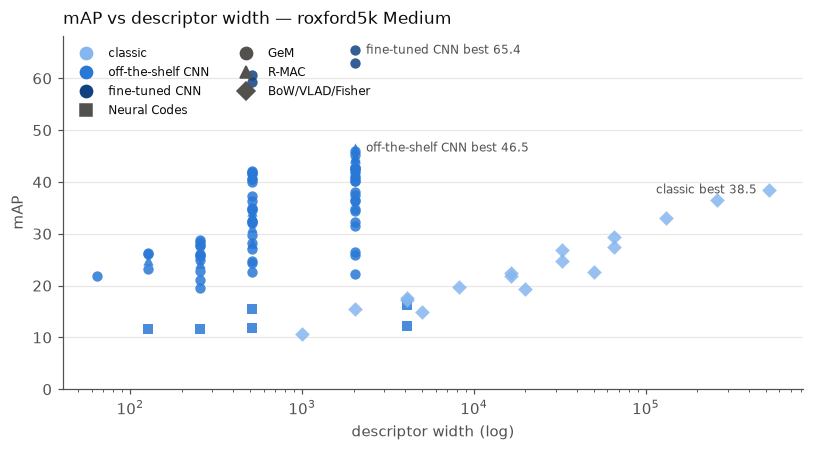
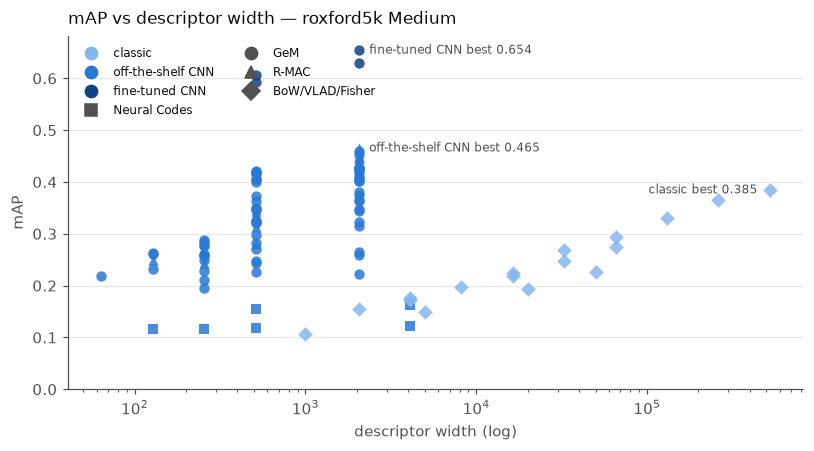
Report mAP on 0-1 throughout
The two notebooks disagreed -- 02 plotted fractions, 03 plotted x100 -- so the
two README figures sat next to each other on different scales. 0-1 everywhere
now, matching the notebook that was already there.

Ten tables converted by explicit column index rather than by pattern, since a
regex over the README would also have caught the `k`, `dim`, GB, arXiv-id and
pooling-exponent figures that share the shape. Thirty prose passages converted
as asserted literal replacements for the same reason.

Published figures are quoted on the same 0-1 scale, which the protocol lines
now state, because the papers print them x100 and a reader checking Table 5
against these tables needs to know the difference is scale and not measurement.

The run-to-run noise note keeps four decimals: at three, the 0.4200 and 0.4211
it contrasts round to the same number.

Verified after the fact -- twenty measured figures re-derived from runs.jsonl
at the new scale, plus a scan confirming no table row and no prose figure is
still on 0-100.

diff --git a/README.md b/README.md
@@ -73,33 +73,33 @@ Plotted against **descriptor dimensionality**, not `k` — the axis on which the
 comparable, since equal `k` buys wildly unequal vectors. Regenerated by the last cell of
 `notebooks/02_classic_comparison.ipynb`, so it cannot drift from the numbers below.
 
-roxford5k, codebook held out on rparis6k, seed 0, mAP ×100. Medium is the headline
+roxford5k, codebook held out on rparis6k, seed 0, mAP on 0–1. Medium is the headline
 number in the literature; Easy is near-saturated and reported in `results/runs.jsonl`
 only.
 
 | method | k | dim | Medium | Hard |
 |---|---:|---:|---:|---:|
-| BoW | 1000 | 1000 | 10.7 | 2.8 |
-| BoW | 5000 | 5000 | 14.8 | 5.7 |
-| BoW | 20000 | 20000 | 19.4 | 7.6 |
-| BoW | 50000 | 50000 | 22.6 | 8.7 |
-| Fisher | 16 | 4096 | 17.6 | 6.3 |
-| Fisher | 64 | 16384 | 21.9 | 10.6 |
-| Fisher | 128 | 32768 | 24.7 | 11.8 |
-| Fisher | 256 | 65536 | 27.4 | 14.4 |
-| VLAD | 16 | 2048 | 15.4 | 4.2 |
-| VLAD | 32 | 4096 | 17.3 | 5.6 |
-| VLAD | 64 | 8192 | 19.7 | 8.0 |
-| VLAD | 128 | 16384 | 22.4 | 10.0 |
-| VLAD | 256 | 32768 | 26.9 | 13.4 |
-| VLAD | 512 | 65536 | 29.5 | 13.7 |
-| VLAD | 1024 | 131072 | 33.1 | 16.2 |
-| VLAD | 2048 | 262144 | 36.5 | 19.0 |
-| **VLAD** | **4096** | **524288** | **38.5** | **19.5** |
+| BoW | 1000 | 1000 | 0.107 | 0.028 |
+| BoW | 5000 | 5000 | 0.148 | 0.057 |
+| BoW | 20000 | 20000 | 0.194 | 0.076 |
+| BoW | 50000 | 50000 | 0.226 | 0.087 |
+| Fisher | 16 | 4096 | 0.176 | 0.063 |
+| Fisher | 64 | 16384 | 0.219 | 0.106 |
+| Fisher | 128 | 32768 | 0.247 | 0.118 |
+| Fisher | 256 | 65536 | 0.274 | 0.144 |
+| VLAD | 16 | 2048 | 0.154 | 0.042 |
+| VLAD | 32 | 4096 | 0.173 | 0.056 |
+| VLAD | 64 | 8192 | 0.197 | 0.080 |
+| VLAD | 128 | 16384 | 0.224 | 0.100 |
+| VLAD | 256 | 32768 | 0.269 | 0.134 |
+| VLAD | 512 | 65536 | 0.295 | 0.137 |
+| VLAD | 1024 | 131072 | 0.331 | 0.162 |
+| VLAD | 2048 | 262144 | 0.365 | 0.190 |
+| **VLAD** | **4096** | **524288** | **0.385** | **0.195** |
 
-**Validation.** Radenović et al. report `HesAff–rSIFT–VLAD` at Medium 33.9 / Hard 13.2 on
+**Validation.** Radenović et al. report `HesAff–rSIFT–VLAD` at Medium 0.339 / Hard 0.132 on
 this benchmark ([1803.11285](https://arxiv.org/abs/1803.11285), Table 5). VLAD k=1024
-here reaches 33.1 / 16.2 — with OpenCV DoG SIFT rather than Hessian-Affine, no
+here reaches 0.331 / 0.162 — with OpenCV DoG SIFT rather than Hessian-Affine, no
 PCA-whitening, and a vocabulary trained on rparis6k rather than a separate landmark set.
 Landing on a published number is what licenses trusting the rest of the table; the larger
 `k` above it then exceed that reference.
@@ -108,12 +108,13 @@ At matched dimensionality the ordering is **VLAD ≥ Fisher > BoW** at every poi
 looks stronger at equal `k` only because its vector is twice as long there.
 
 **VLAD may be levelling off near k=4096, but this is not established.** Its Medium
-increments per doubling run +1.9, +2.5, +2.6, +4.6, +2.5, +3.7, +3.4, +1.9 and Hard's run
-+1.4, +2.4, +2.0, +3.4, +0.3, +2.5, +2.7, +0.5. The final doubling is the smallest for
-both — but Hard already dropped to +0.3 at k=512 and then resumed at +2.5 and +2.7, so a
+increments per doubling run +0.019, +0.025, +0.026, +0.046, +0.025, +0.037, +0.034,
++0.019 and Hard's run +0.014, +0.024, +0.020, +0.034, +0.003, +0.025, +0.027, +0.005. The final doubling is the smallest for
+both — but Hard already dropped to +0.003 at k=512 and then resumed at +0.025 and
++0.027, so a
 single small increment has misled here before. Treat k=4096 as the point where returns
 stop justifying the cost (twice the storage, 5.2 → 10.5 GB for the database matrix, for
-under two points) rather than as a demonstrated ceiling. Confirming a real plateau needs
+under 0.02 mAP) rather than as a demonstrated ceiling. Confirming a real plateau needs
 k=8192, which this setup cannot reach.
 
 BoW and Fisher were not pushed anywhere near their knees; both were still climbing where
@@ -165,8 +166,9 @@ was run with WSL at 64 GB. Below k=2048 the default 48 GB is fine.
 
 Frozen ImageNet backbones, plus the published fine-tuned checkpoints in their own
 section below. Same protocol as the classic tier:
-roxford5k, anything fitted is fitted on rparis6k, seed 0, mAP ×100, queries bbx-cropped,
-multi-scale at the three published scales (1, 1/√2, 1/2).
+roxford5k, anything fitted is fitted on rparis6k, seed 0, mAP on 0–1, queries
+bbx-cropped, multi-scale at the three published scales (1, 1/√2, 1/2). Published figures
+are quoted on the same 0–1 scale; the papers themselves print them ×100.
 
 ```
 uv run cbir evaluate --dataset roxford5k gem  --backbone resnet101 --p 3.0 \
@@ -184,13 +186,13 @@ training recipe — and the descriptors agree at cosine 0.23.
 
 | GeM `p=3` | torchvision | caffe | Δ |
 |---|---:|---:|---:|
-| **ResNet101** | 34.7 | **46.1** | **+11.4** |
-| ResNet50 | 40.8 | 42.5 | +1.7 |
-| VGG16 | 42.0 | 40.6 | −1.4 |
+| **ResNet101** | 0.347 | **0.461** | **+0.114** |
+| ResNet50 | 0.408 | 0.425 | +0.017 |
+| VGG16 | 0.420 | 0.406 | −0.014 |
 
 It is architecture-specific, not a blanket improvement: torchvision's ResNet101 simply
 transfers to retrieval far worse than its ResNet50, and on VGG16 the Caffe weights are
-slightly *worse*. MAC is affected most (+16.2 on ResNet101, +8.0 on ResNet50), which
+slightly *worse*. MAC is affected most (+0.162 on ResNet101, +0.080 on ResNet50), which
 fits the measured difference in the features — Caffe's final conv map is **96% zeros at
 std 0.72** against torchvision's **75% at 0.33**, a sparser, higher-contrast
 representation where a max picks a real peak rather than diffuse activation.
@@ -211,15 +213,16 @@ their configuration — their weights, their truncation:
 
 | method | backbone | ours | published | |
 |---|---|---:|---:|---|
-| GeM `p=3` | VGG16 | 40.5 / 15.5 | 40.5 / 15.7 | exact |
-| GeM `p=3` | ResNet101 | 46.1 / 18.6 | 45.0 / 17.7 | above |
-| MAC | ResNet101 | 42.7 / 17.2 | 41.7 / 18.0 | above |
-| MAC | AlexNet | 27.6 / 9.0 | 28.3 / 8.8 | −0.7 |
-| R-MAC | ResNet101 | 46.5 / 14.2 | 49.8 / 18.5 | **−3.2** |
+| GeM `p=3` | VGG16 | 0.405 / 0.155 | 0.405 / 0.157 | exact |
+| GeM `p=3` | ResNet101 | 0.461 / 0.186 | 0.450 / 0.177 | above |
+| MAC | ResNet101 | 0.427 / 0.172 | 0.417 / 0.180 | above |
+| MAC | AlexNet | 0.276 / 0.090 | 0.283 / 0.088 | −0.7 |
+| R-MAC | ResNet101 | 0.465 / 0.142 | 0.498 / 0.185 | **−3.2** |
 
-**VGG16 reproduces exactly** once the configuration matches. Our earlier 42.0 was not a
+**VGG16 reproduces exactly** once the configuration matches. Our earlier 0.420 was not a
 better reproduction — it was a *different* configuration (torchvision weights, trailing
-max-pool kept) that happens to score 1.5 higher than the method it was compared against.
+max-pool kept) that happens to score 0.015 higher than the method it was compared
+against.
 Both differences pushed the same way.
 
 **R-MAC is the one row still short, with an identified cause**: the published method
@@ -236,10 +239,10 @@ That is 4× the positions on the conv map — 64×64 against 32×32 at `max_side
 
 | vgg16 GeM `p=3` | pool kept | pool dropped |
 |---|---:|---:|
-| torchvision weights | 42.0 / 15.6 | 41.6 / **16.7** |
-| caffe weights | 40.6 / 15.4 | 40.5 / 15.5 |
+| torchvision weights | 0.420 / 0.156 | 0.416 / **0.167** |
+| caffe weights | 0.406 / 0.154 | 0.405 / 0.155 |
 
-Small on Medium, but dropping it is worth **+1.1 Hard** on torchvision weights — more
+Small on Medium, but dropping it is worth **+0.011 Hard** on torchvision weights — more
 positions to pool over helps most where the object is small or partly occluded.
 
 ### The full grid
@@ -250,28 +253,28 @@ noted underneath.
 
 | backbone | dim | SPoC | MAC | GeM `p=3` | R-MAC |
 |---|---:|---|---|---|---|
-| AlexNet¹ | 256 | 21.0 / 2.5 | 27.6 / 9.0 | 27.9 / 7.2 | 24.4 / 4.1 |
-| VGG16 | 512 | 37.2 / 10.9 | 34.9 / 13.7 | **42.0** / 15.6 | 34.4 / 7.3 |
-| VGG19 | 512 | 34.7 / 10.0 | 34.6 / 15.1 | 40.0 / **18.4** | 33.6 / 6.5 |
-| ResNet18 | 512 | 32.3 / 6.3 | 22.6 / 7.0 | 28.2 / 8.1 | 31.3 / 5.1 |
-| ResNet34 | 512 | 32.4 / 5.9 | 24.3 / 6.5 | 29.8 / 6.8 | 33.6 / 6.7 |
-| ResNet50 | 2048 | 42.9 / 14.2 | 32.2 / 11.1 | 40.8 / 14.0 | 45.1 / 12.7 |
-| ResNet101 | 2048 | 38.1 / 10.2 | 26.5 / 6.7 | 34.7 / 10.8 | 42.8 / 11.1 |
-| **ResNet101 (caffe)** | 2048 | 41.9 / 13.6 | 42.7 / 17.2 | 46.1 / **18.6** | **46.5** / 14.2 |
-| *(VLAD k=4096, classic)* | *524288* | | | *38.5 / 19.5* | |
+| AlexNet¹ | 256 | 0.210 / 0.025 | 0.276 / 0.090 | 0.279 / 0.072 | 0.244 / 0.041 |
+| VGG16 | 512 | 0.372 / 0.109 | 0.349 / 0.137 | **0.420** / 0.156 | 0.344 / 0.073 |
+| VGG19 | 512 | 0.347 / 0.100 | 0.346 / 0.151 | 0.400 / **0.184** | 0.336 / 0.065 |
+| ResNet18 | 512 | 0.323 / 0.063 | 0.226 / 0.070 | 0.282 / 0.081 | 0.313 / 0.051 |
+| ResNet34 | 512 | 0.324 / 0.059 | 0.243 / 0.065 | 0.298 / 0.068 | 0.336 / 0.067 |
+| ResNet50 | 2048 | 0.429 / 0.142 | 0.322 / 0.111 | 0.408 / 0.140 | 0.451 / 0.127 |
+| ResNet101 | 2048 | 0.381 / 0.102 | 0.265 / 0.067 | 0.347 / 0.108 | 0.428 / 0.111 |
+| **ResNet101 (caffe)** | 2048 | 0.419 / 0.136 | 0.427 / 0.172 | 0.461 / **0.186** | **0.465** / 0.142 |
+| *(VLAD k=4096, classic)* | *524288* | | | *0.385 / 0.195* | |
 
 ¹ AlexNet unwhitened — whitening costs mAP at 256-D.
 
-**Best: ResNet101 R-MAC 46.5 Medium** from 2048 dimensions, against the classic tier's
-best of VLAD k=4096 at 38.5 from **524288**. Hard is now close too — 18.6 against VLAD's
-19.5, where it used to be a rout.
+**Best: ResNet101 R-MAC 0.465 Medium** from 2048 dimensions, against the classic tier's
+best of VLAD k=4096 at 0.385 from **524288**. Hard is now close too — 0.186 against
+VLAD's 0.195, where it used to be a rout.
 
 **Which pooling wins is backbone-dependent.** GeM leads on VGG; the sum-like poolings
 lead on the torchvision ResNets. Note the earlier claim that "MAC is worst on every
 ResNet" was an artifact of the wrong weights: on Caffe ResNet101 it is second-best and
 has the tier's second-best Hard.
 
-**Depth buys little at fixed width.** ResNet18 → ResNet34 gains ~1.7 averaged over
+**Depth buys little at fixed width.** ResNet18 → ResNet34 gains ~0.017 averaged over
 methods; VGG16 → VGG19 loses Medium and gains Hard. The 512 → 2048 width jump is worth
 far more, and weight provenance more than either.
 
@@ -283,26 +286,27 @@ decorrelates them, while a max creates no such correlation.
 
 | VGG16, multi-scale | plain | + whitening | gain |
 |---|---:|---:|---:|
-| SPoC | 27.1 | 37.2 | **+10.2** |
-| R-MAC | 28.2 | 34.4 | +6.2 |
-| GeM `p=3` | 36.4 | 42.0 | +5.6 |
-| MAC | 32.0 | 34.9 | +2.9 |
+| SPoC | 0.271 | 0.372 | **+0.102** |
+| R-MAC | 0.282 | 0.344 | +0.062 |
+| GeM `p=3` | 0.364 | 0.420 | +0.056 |
+| MAC | 0.320 | 0.349 | +0.029 |
 
-It reverses on AlexNet, where whitening costs MAC 3.3 mAP (22.9 → 19.6 single-scale) —
+It reverses on AlexNet, where whitening costs MAC 0.033 mAP (0.229 → 0.196 single-scale) —
 at 256-D there is little redundancy to remove and a proportionally noisier tail. Worth
 measuring per backbone rather than assuming.
 
 **`--shrinkage ε`** floors whitening's divisor at `sqrt(λ + ε·mean(λ))`. Whitening
 divides by `sqrt(λ)`, and when the fitting set is not much larger than the descriptor the
 smallest eigenvalues are noise. At 2048 components fitted on 2100 images the pipeline
-scores **6.7** unshrunk and **39.3** at ε=0.1. In the regime we actually run (6322
-images) it is worth +0.4 to +1.0 on the 2048-D backbones and +0.1 on VGG16 at 512-D.
+scores **0.067** unshrunk and **0.393** at ε=0.1. In the regime we actually run (6322
+images) it is worth +0.004 to +0.010 on the 2048-D backbones and +0.001 on VGG16 at
+512-D.
 
 **`--whiten-source sfm30k|sfm120k`** fits whitening on the retrieval-SfM landmark corpus
-the reference uses (a 37.7 GB manual download; see `descriptors/cnn/sfm.py`). Worth +2.3
+the reference uses (a 37.7 GB manual download; see `descriptors/cnn/sfm.py`). Worth +0.023
 Medium on *torchvision* ResNet101 — but once the weights are right it stops helping
-(46.1 → 45.3), so that gain was whitening compensating for weak features. It saturates
-by ~30k images: 30k and 120k differ by 0.2.
+(0.461 → 0.453), so that gain was whitening compensating for weak features. It saturates
+by ~30k images: 30k and 120k differ by 0.002.
 
 ### Fine-tuned checkpoints
 
@@ -315,41 +319,41 @@ cross-dataset rule holds: nothing was fitted on what it searches.
 
 | backbone | scales | Medium mAP | mP@10 | Hard mAP | mP@10 |
 |---|---|---:|---:|---:|---:|
-| VGG16 | single | 59.3 | 81.0 | 32.3 | 49.9 |
-| VGG16 | multi | 60.7 | 82.3 | 32.9 | 51.0 |
-| ResNet101 | single | 63.0 | 83.3 | 38.3 | 54.1 |
-| **ResNet101** | **multi** | **65.4** | **86.0** | **40.4** | **56.4** |
+| VGG16 | single | 0.593 | 0.810 | 0.323 | 0.499 |
+| VGG16 | multi | 0.607 | 0.823 | 0.329 | 0.510 |
+| ResNet101 | single | 0.630 | 0.833 | 0.383 | 0.541 |
+| **ResNet101** | **multi** | **0.654** | **0.860** | **0.404** | **0.564** |
 
 Against Table 5, which reports both metrics on both protocols — eight comparisons, not
 two, and the paper does not evaluate Easy at all:
 
 | multi-scale | Medium mAP | mP@10 | Hard mAP | mP@10 |
 |---|---:|---:|---:|---:|
-| VGG16 ours | 60.7 | 82.3 | 32.9 | 51.0 |
-| V–[37]–GeM published | 61.9 | 82.7 | 33.7 | 51.0 |
-| | −1.2 | −0.4 | −0.8 | **0.0** |
-| ResNet101 ours | 65.4 | 86.0 | 40.4 | 56.4 |
-| R–[37]–GeM published | 64.7 | 84.7 | 38.5 | 53.0 |
-| | **+0.7** | **+1.3** | **+1.9** | **+3.4** |
+| VGG16 ours | 0.607 | 0.823 | 0.329 | 0.510 |
+| V–[37]–GeM published | 0.619 | 0.827 | 0.337 | 0.510 |
+| | −0.012 | −0.004 | −0.008 | **0.000** |
+| ResNet101 ours | 0.654 | 0.860 | 0.404 | 0.564 |
+| R–[37]–GeM published | 0.647 | 0.847 | 0.385 | 0.530 |
+| | **+0.007** | **+0.013** | **+0.019** | **+0.034** |
 
 ![Off-the-shelf and fine-tuned GeM against the published rows, all three protocols](docs/cnn_validation.png)
 
 **This is what the exercise was for.** Every earlier validation point sat at the bottom
-of the published range, 40–46, where a two-point discrepancy is hard to read. Reproducing
-64.7 confirms the evaluation path at the top of the range as well, so the gaps in the
+of the published range, 0.40–0.46, where a 0.02 discrepancy is hard to read. Reproducing
+0.647 confirms the evaluation path at the top of the range as well, so the gaps in the
 off-the-shelf grid above are descriptor gaps and not harness gaps.
 
 ResNet101 lands above its published row and VGG16 below its own — opposite directions,
 which is not the shape a pipeline error takes. VGG16's Hard mP@10 is exact and its
-Medium mP@10 is −0.4, so the top of its ranking matches and the ~1 mAP shortfall is in
+Medium mP@10 is −0.004, so the top of its ranking matches and the ~0.01 mAP shortfall is in
 the tail. One candidate was tested and rejected: matching the reference's resize order
 (normalize first, then bilinearly interpolate the tensor, rather than our single bicubic
-PIL resize from the original) moved Medium +0.2 and Hard −0.2. The residual is left
+PIL resize from the original) moved Medium +0.002 and Hard −0.002. The residual is left
 unexplained rather than tuned away.
 
 **The pooling was never the problem.** `p` is differentiable and was therefore trained,
 not chosen — and it came out at **2.9208** (VGG16) and **2.9033** (ResNet101) against the
-hand-picked 3.0 used everywhere above. Training moved it by 3%. The entire ~19 mAP gap
+hand-picked 3.0 used everywhere above. Training moved it by 3%. The entire ~0.19 mAP gap
 between the off-the-shelf and fine-tuned rows is in the conv weights.
 
 A checkpoint carries three things, and loading only the first would silently produce a
@@ -377,17 +381,17 @@ Same benchmark, same protocol, best row from each:
 
 | tier | descriptor | dim | Medium | Hard |
 |---|---|---:|---:|---:|
-| classic | VLAD k=4096 | 524288 | 38.5 | 19.5 |
-| off-the-shelf CNN | ResNet101 R-MAC, caffe | 2048 | 46.5 | 14.2 |
-| off-the-shelf CNN | ResNet101 GeM `p=3`, caffe | 2048 | 46.1 | 18.6 |
-| fine-tuned CNN | ResNet101 GeM, multi-scale | 2048 | **65.4** | **40.4** |
+| classic | VLAD k=4096 | 524288 | 0.385 | 0.195 |
+| off-the-shelf CNN | ResNet101 R-MAC, caffe | 2048 | 0.465 | 0.142 |
+| off-the-shelf CNN | ResNet101 GeM `p=3`, caffe | 2048 | 0.461 | 0.186 |
+| fine-tuned CNN | ResNet101 GeM, multi-scale | 2048 | **0.654** | **0.404** |
 
 The off-the-shelf tier needs two rows because no single one wins both protocols: R-MAC
 takes Medium and GeM takes Hard, and R-MAC's Hard is its weakest result — the
 per-region-whitening gap documented above. Either way that tier beats the classic one on
-Medium from a vector 256× shorter, while **losing** to it on Hard (19.5 against 18.6).
+Medium from a vector 256× shorter, while **losing** to it on Hard (0.195 against 0.186).
 
-The fine-tuned row wins both outright: +27.0 Medium and +21.0 Hard over VLAD, at 1/256
+The fine-tuned row wins both outright: +0.270 Medium and +0.210 Hard over VLAD, at 1/256
 the width — because the network was trained for the question being asked instead of
 borrowed from a classifier.
 
@@ -395,10 +399,10 @@ borrowed from a classifier.
 
 | backbone | dim | Medium | Hard |
 |---|---:|---:|---:|
-| AlexNet fc6 | 4096 | 12.2 | 2.8 |
-| AlexNet fc6 + PCA | 256 | 11.7 | 2.5 |
-| VGG16 fc6 | 4096 | 16.3 | 5.1 |
-| VGG16 fc6 + PCA | 512 | 15.4 | 5.0 |
+| AlexNet fc6 | 4096 | 0.122 | 0.028 |
+| AlexNet fc6 + PCA | 256 | 0.117 | 0.025 |
+| VGG16 fc6 | 4096 | 0.163 | 0.051 |
+| VGG16 fc6 + PCA | 512 | 0.154 | 0.050 |
 
 Losing to everything else is expected. Babenko et al.
 ([1404.1777](https://arxiv.org/abs/1404.1777)) report the same ordering for codes off an
@@ -408,20 +412,20 @@ method, so these rows compare only against our own.
 
 ### Other findings
 
-**Multi-scale** is worth +4.7 Medium on AlexNet MAC (22.9 → 27.6). Per-scale descriptors
+**Multi-scale** is worth +0.047 Medium on AlexNet MAC (0.229 → 0.276). Per-scale descriptors
 are L2-normalized before combining, then combined by averaging for every method except
 GeM, which reuses its own generalized mean (Radenović et al., §Multi-scale) — worth
-~0.2 mAP.
+~0.002 mAP.
 
-**The `p` curve is flat at its top.** On AlexNet, Medium runs 21.0, 25.8, 27.9, 28.7,
-28.5, 26.2 for `p` = 1, 2, 3, 4, 5, 10 — the 3–5 span sits inside 0.8, unresolvable at
-one seed. Hard rises monotonically with `p` to true max.
+**The `p` curve is flat at its top.** On AlexNet, Medium runs 0.210, 0.258, 0.279,
+0.287, 0.285, 0.262 for `p` = 1, 2, 3, 4, 5, 10 — the 3–5 span sits inside 0.008,
+unresolvable at one seed. Hard rises monotonically with `p` to true max.
 
 **A note on the last digit.** Two runs of one configuration, identical params and an
-identical code path, recorded 42.00 and 42.11 (VGG16 GeM `p=3`, torchvision). Nothing in
+identical code path, recorded 0.4200 and 0.4211 (VGG16 GeM `p=3`, torchvision). Nothing in
 `params` differed and the intervening change was provably a no-op at `shrinkage=0`, so
-that 0.11 is run-to-run nondeterminism in the pipeline itself. **Treat differences below
-roughly 0.2 mAP as noise** — which is the empirical version of the caution the `p` sweep
+that 0.0011 is run-to-run nondeterminism in the pipeline itself. **Treat differences
+below roughly 0.002 mAP as noise** — which is the empirical version of the caution the `p` sweep
 already states. It also means a figure may disagree with a table in its last digit: the
 notebooks plot the *most recent* measurement of each configuration, the tables quote the
 run they were written against.
@@ -429,8 +433,8 @@ run they were written against.
 Caveats: single seed throughout, and **roxford5k only** — every number here evaluates on
 roxford5k with rparis6k as the held-out set, and the reverse direction was deliberately
 not run. Nothing here is evidence that a conclusion generalizes to the second benchmark,
-and the published tables score rparis6k considerably higher (R–[37]–GeM: 64.7 ROxf
-against 77.2 RPar), so these numbers are the harder half of the usual pair rather than a
+and the published tables score rparis6k considerably higher (R–[37]–GeM: 0.647 ROxf
+against 0.772 RPar), so these numbers are the harder half of the usual pair rather than a
 representative sample of it. Input is capped at `max_side=1024` and never enlarged, except that
 scaled inputs are floored at each backbone's conv-stack minimum (63 px AlexNet, 32 px
 elsewhere), which can only trigger below full scale.
